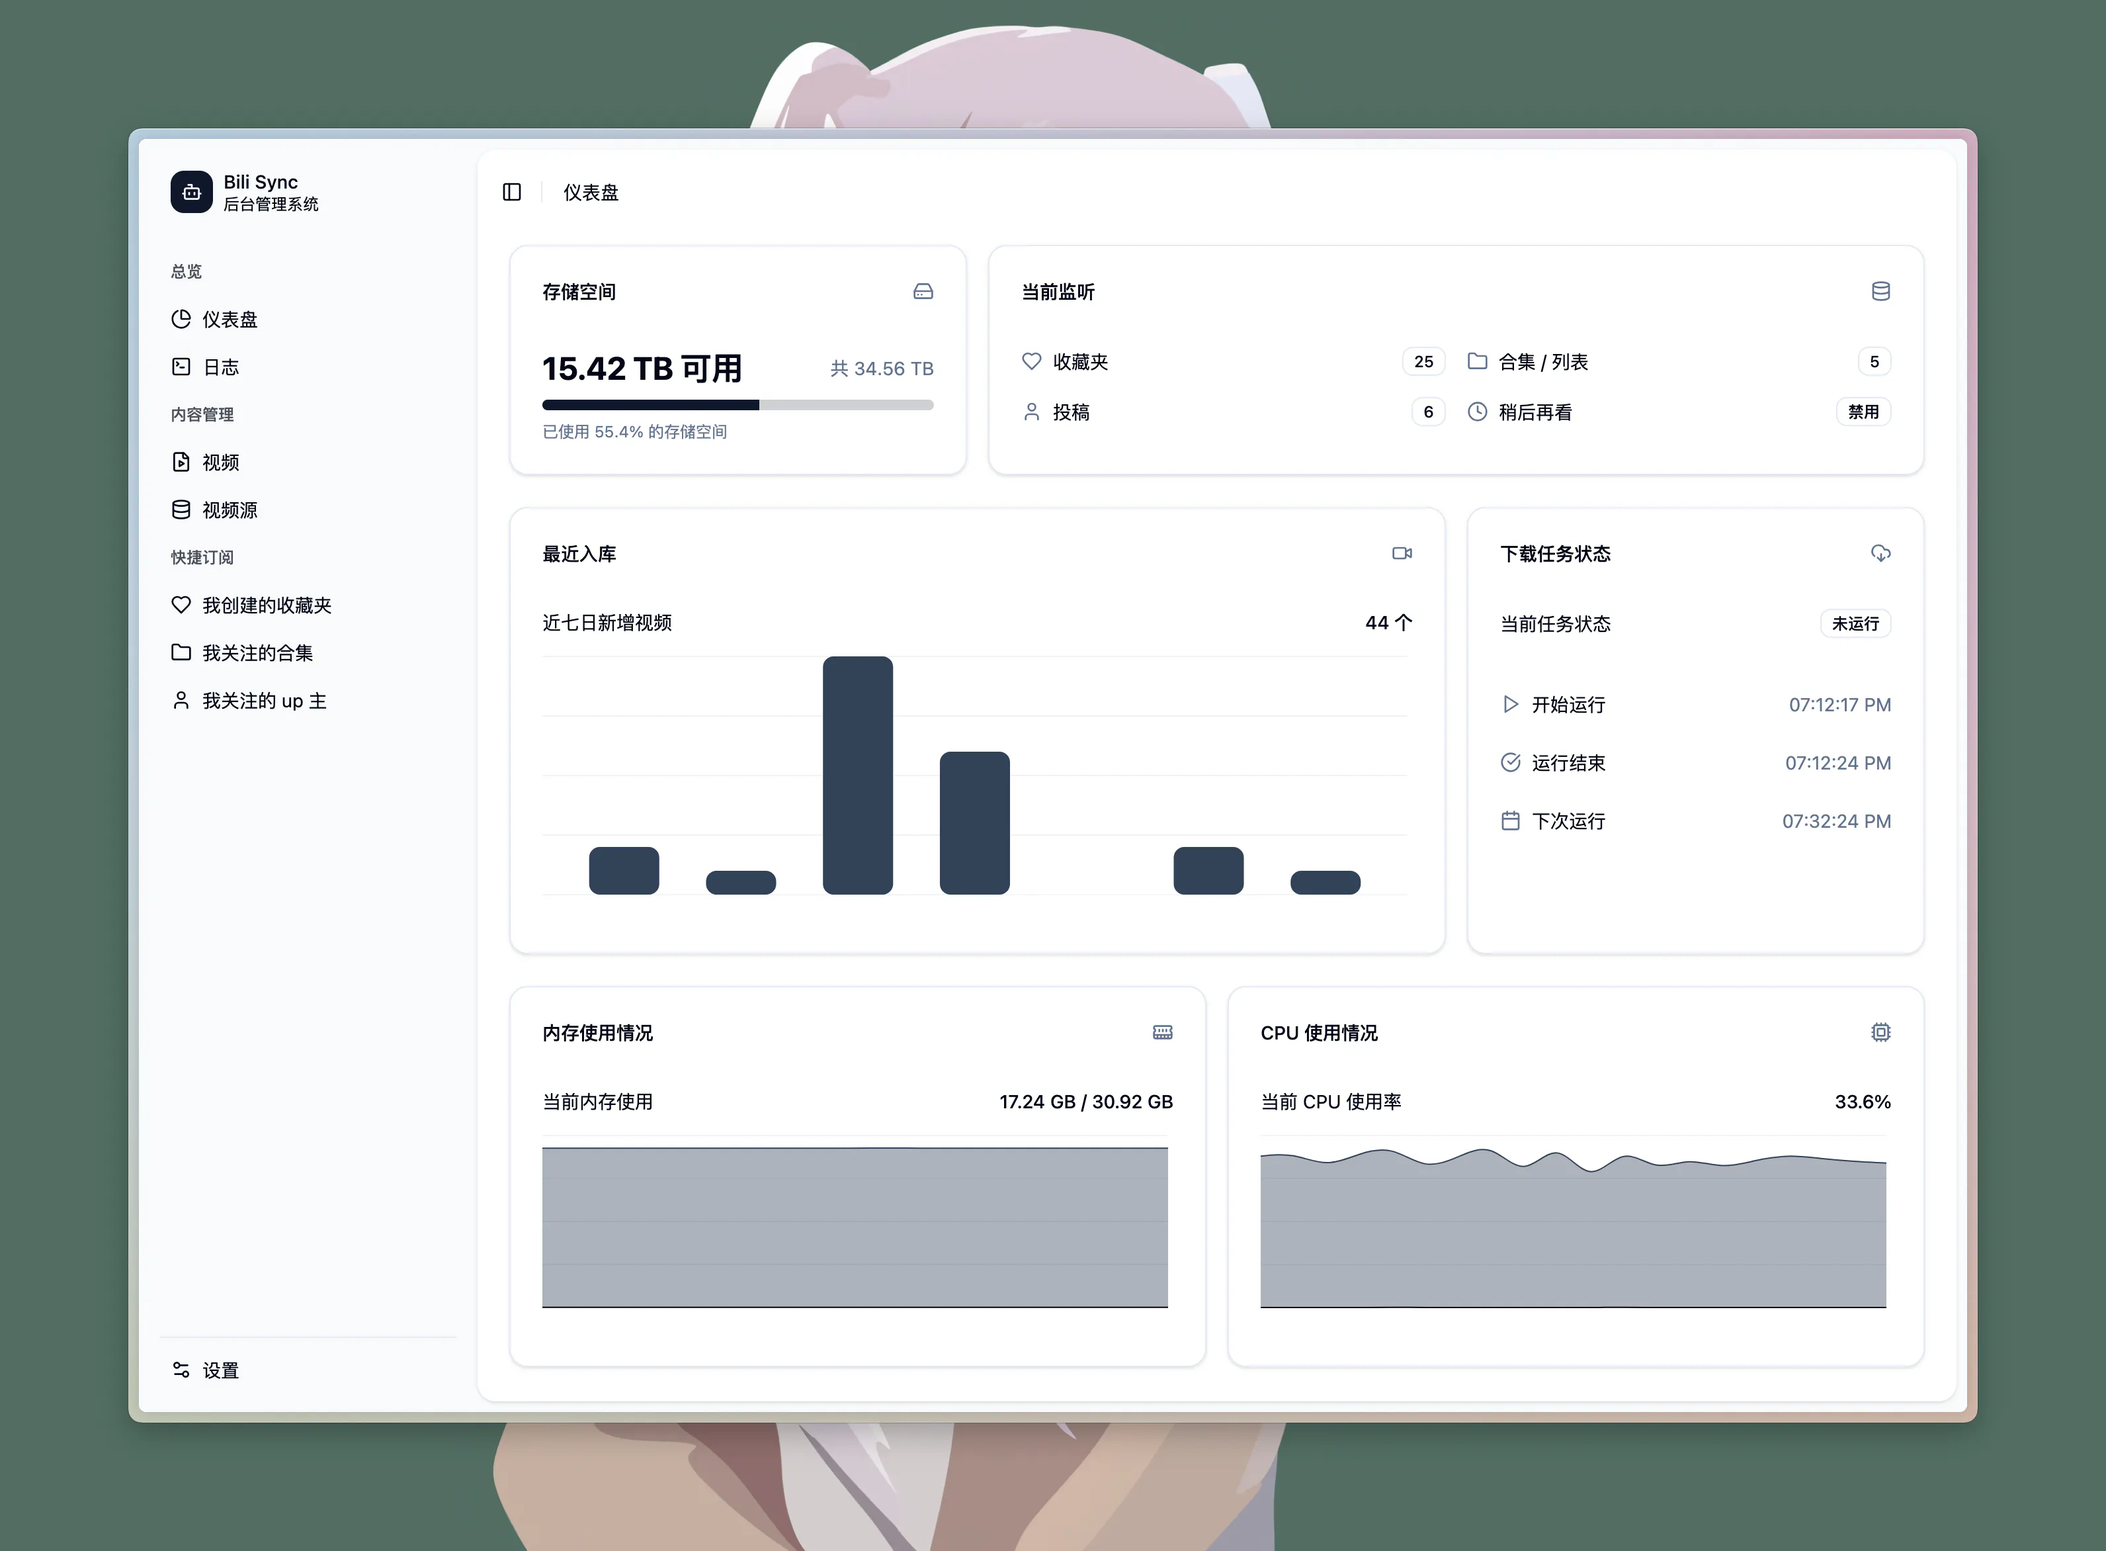
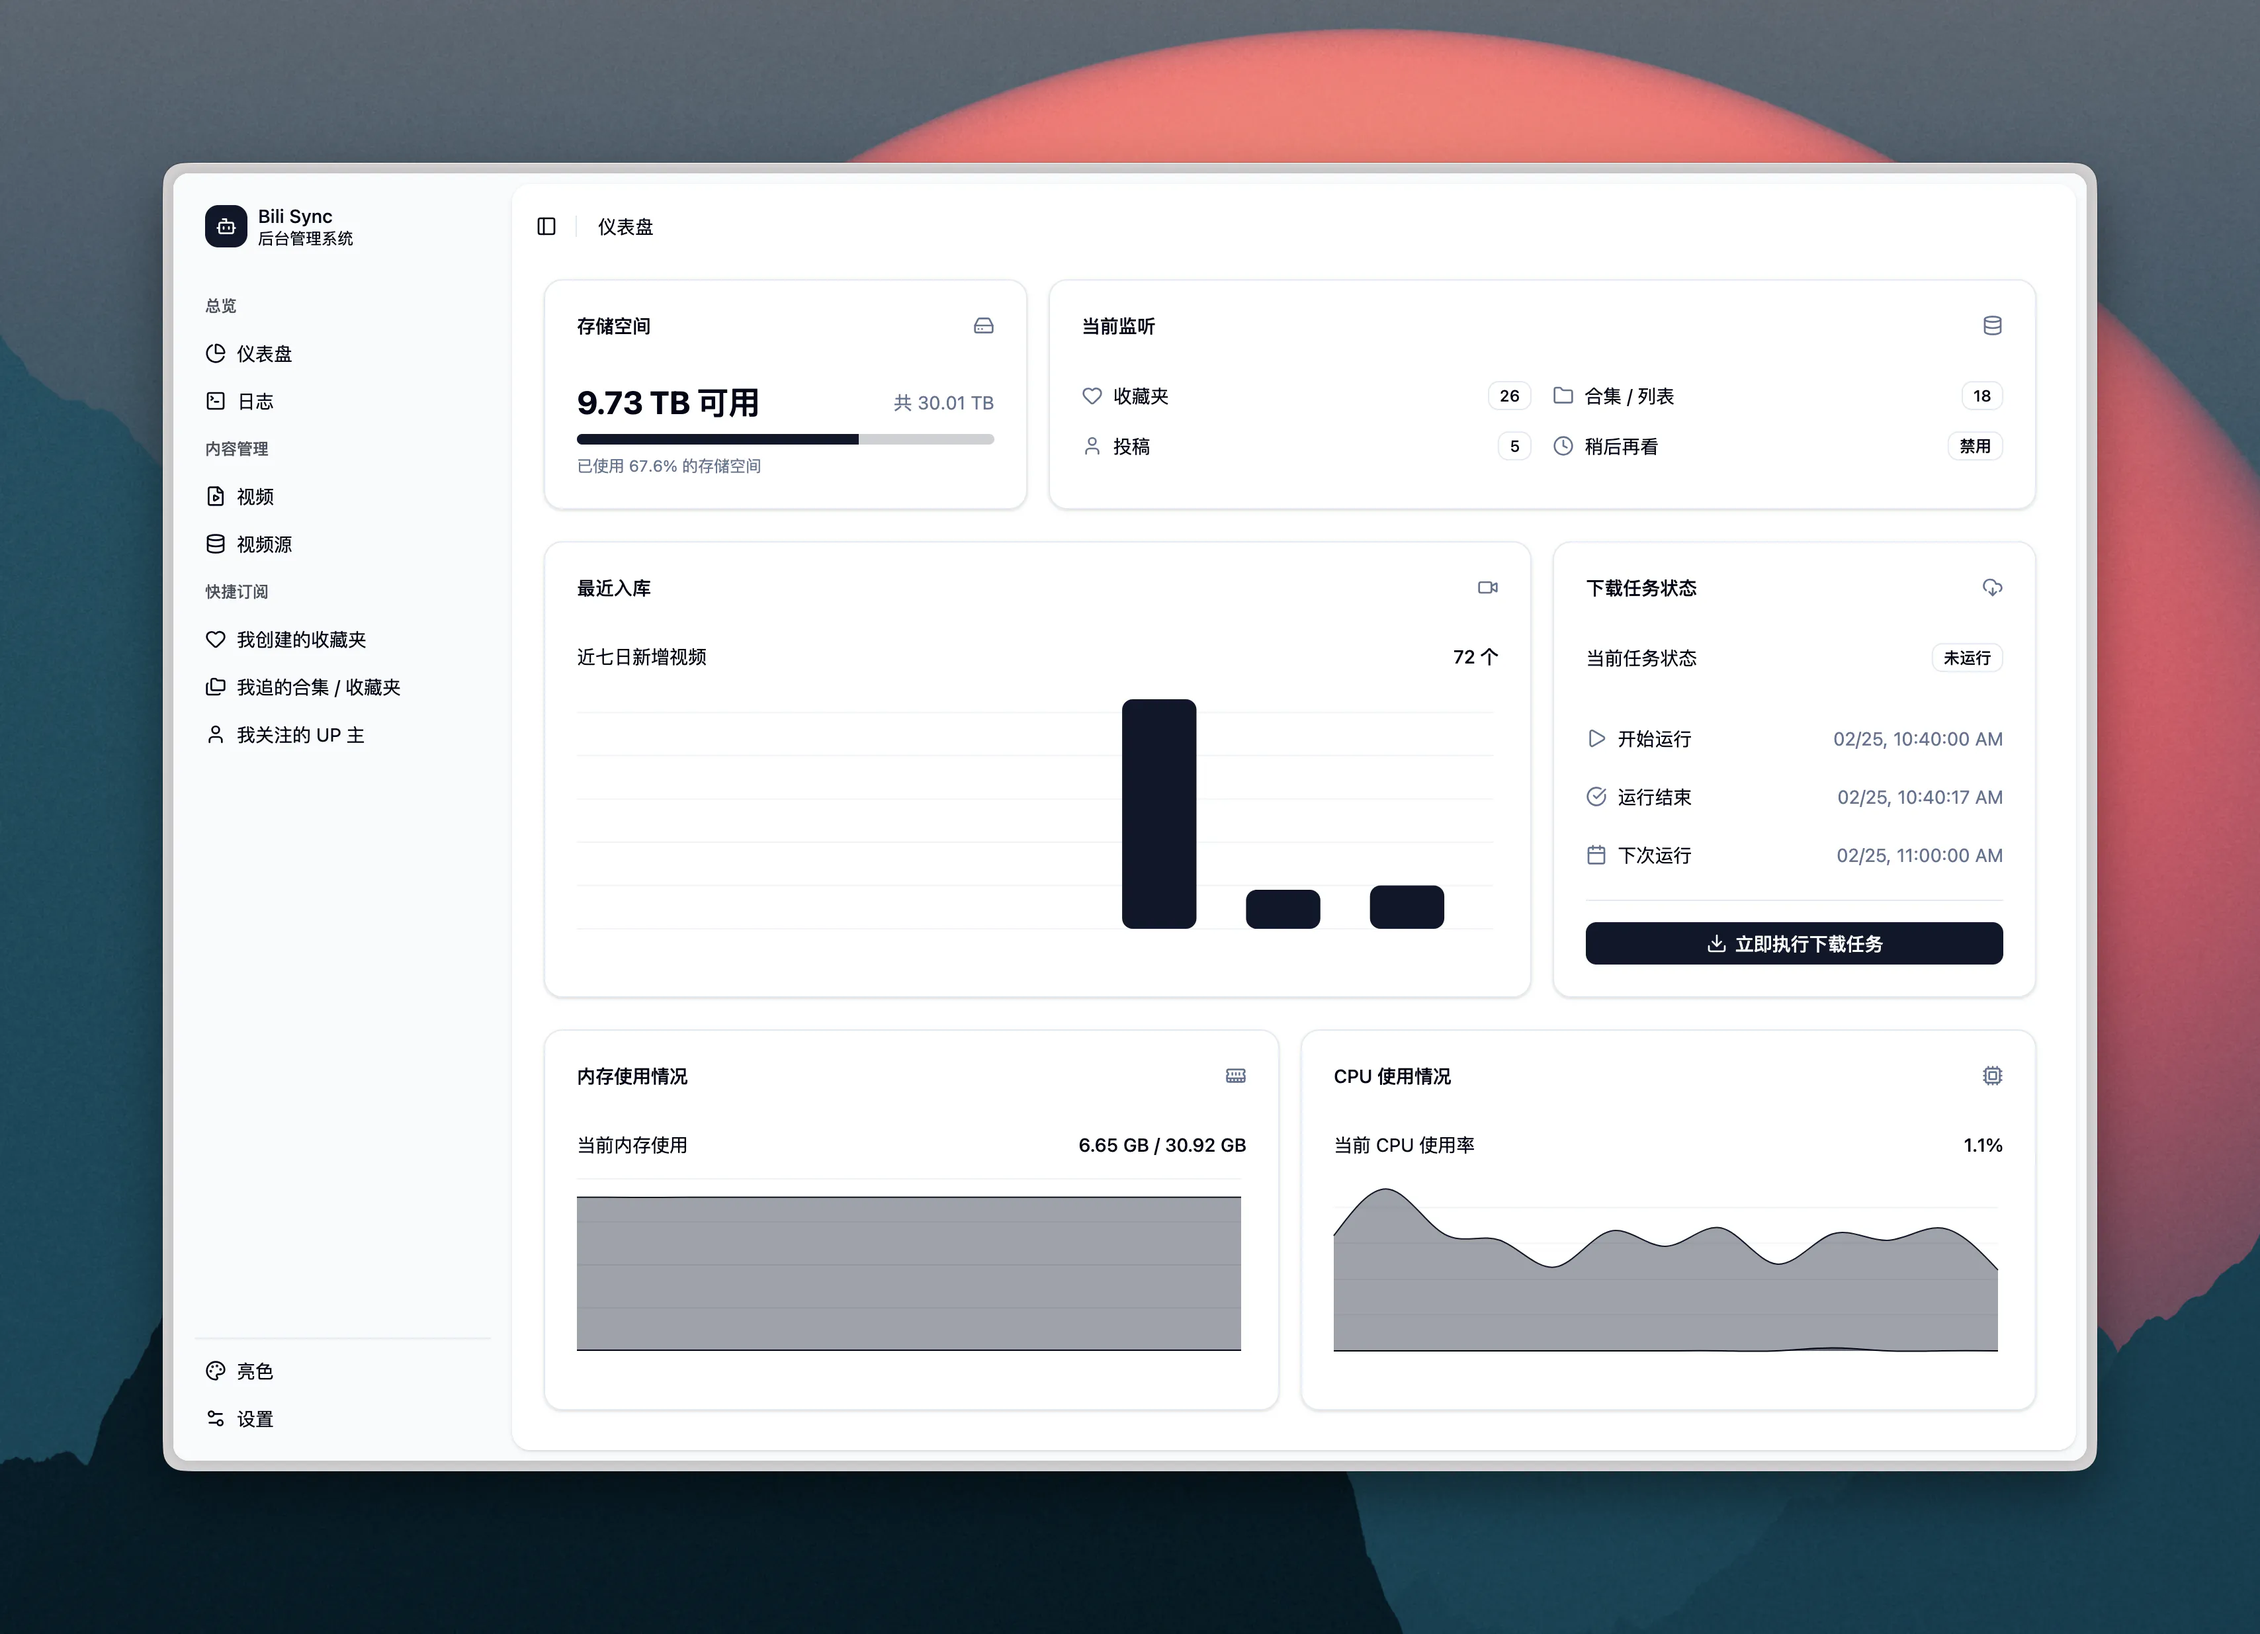
docs: 更新截图和文档链接，修改前端域名 (#659)

diff --git a/README.md b/README.md
@@ -3,14 +3,14 @@
 ## 简介
 
 > [!NOTE]
-> [点击此处](https://bili-sync.allwens.work/)查看文档
+> [查看文档](https://bili-sync.amto.cc/) ｜ [加入 Telegram 交流群](https://t.me/+nuYrt8q6uEo4MWI1)
 
 bili-sync 是一款专为 NAS 用户编写的哔哩哔哩同步工具，由 Rust & Tokio 驱动。
 
 ## 效果演示
 
 ### 管理页
-![管理页](/assets/webui.webp)
+![管理页](./assets/webui.webp)
 ### 媒体库概览
 ![媒体库概览](./assets/overview.webp)
 ### 媒体库详情
